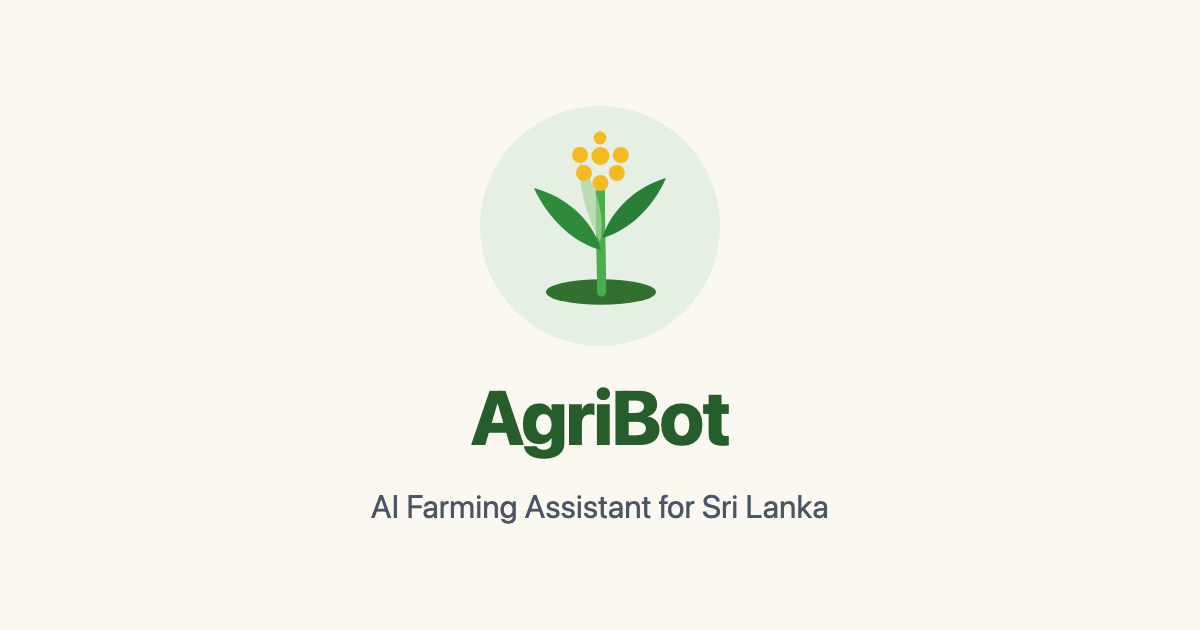
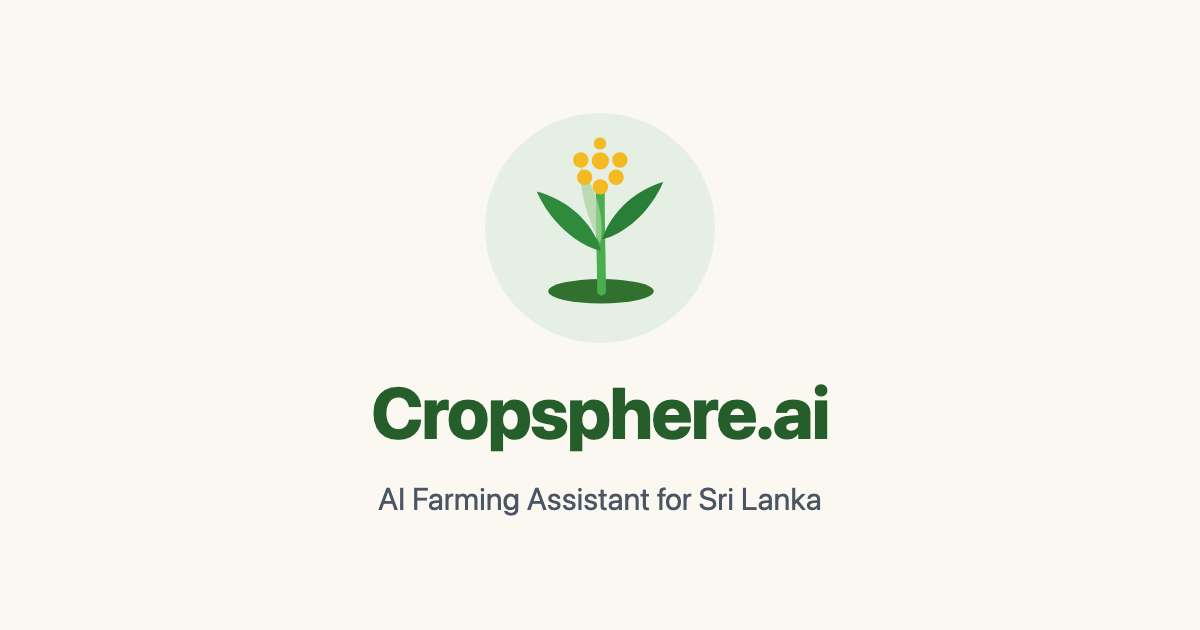
Rename AgriBot to Cropsphere.ai

diff --git a/lib/defaults.js b/lib/defaults.js
@@ -5,13 +5,13 @@ export const defaultContent = {
   hero: {
     title: 'Smart Farming Guidance for Sri Lankan Farmers',
     subtitle:
-      'AgriBot is an AI chatbot that helps farmers plan their crops, estimate earnings, and make better decisions — in simple language, any time of day.',
-    cta: 'Try AgriBot',
+      'Cropsphere.ai is an AI chatbot that helps farmers plan their crops, estimate earnings, and make better decisions — in simple language, any time of day.',
+    cta: 'Try Cropsphere.ai',
     cta_link: '#',
   },
   about: {
-    title: 'About AgriBot',
-    body: 'AgriBot is our final year project: an AI-powered chatbot built to support the farming community of Sri Lanka. Farmers can ask questions about crop planning, cultivation methods, expected income, market prices, and seasonal decisions — and get clear, practical answers instantly.',
+    title: 'About Cropsphere.ai',
+    body: 'Cropsphere.ai is our final year project: an AI-powered chatbot built to support the farming community of Sri Lanka. Farmers can ask questions about crop planning, cultivation methods, expected income, market prices, and seasonal decisions — and get clear, practical answers instantly.',
   },
   contact: {
     email: 'tccgroup2025@gmail.com',
@@ -46,7 +46,7 @@ export const defaultFeatures = [
     icon: '🕐',
     title: 'Available 24/7',
     description:
-      'Ask questions any time — AgriBot never sleeps, so help is always available when you need it.',
+      'Ask questions any time — Cropsphere.ai never sleeps, so help is always available when you need it.',
   },
   {
     icon: '🗣',
@@ -63,7 +63,7 @@ export const defaultSteps = [
   },
   {
     title: 'AI Understands',
-    description: 'AgriBot analyses your question using AI trained on agricultural knowledge.',
+    description: 'Cropsphere.ai analyses your question using AI trained on agricultural knowledge.',
   },
   {
     title: 'Get Clear Answers',
@@ -93,7 +93,7 @@ export const defaultTeam = [
 export const defaultPosts = [
   {
     id: 'sample',
-    title: 'Welcome to AgriBot News',
+    title: 'Welcome to Cropsphere.ai News',
     slug: 'welcome',
     excerpt:
       'This is a sample newsletter post. Log in to the admin portal to publish your own updates.',

diff --git a/app/page.js b/app/page.js
@@ -38,7 +38,7 @@ export default async function HomePage() {
       {/* Features preview */}
       <section className="container-site py-16">
         <Reveal>
-          <h2 className="section-title text-center">What AgriBot Can Do</h2>
+          <h2 className="section-title text-center">What Cropsphere.ai Can Do</h2>
         </Reveal>
         <div className="mt-10 grid gap-6 sm:grid-cols-2 lg:grid-cols-4">
           {features.map((f, i) => (
@@ -109,7 +109,7 @@ export default async function HomePage() {
           <div className="on-dark card bg-leaf-700 border-none py-12">
             <h2 className="text-3xl font-bold text-white">Ready to grow smarter?</h2>
             <p className="mt-3 text-leaf-100 max-w-xl mx-auto">
-              Join farmers across Sri Lanka using AgriBot to plan better and earn more.
+              Join farmers across Sri Lanka using Cropsphere.ai to plan better and earn more.
             </p>
             <a href={hero.cta_link || '#'} className="btn-secondary mt-6">{hero.cta}</a>
           </div>

diff --git a/app/layout.js b/app/layout.js
@@ -8,15 +8,15 @@ import { getMotionSettings } from '@/lib/data';
 export const revalidate = 60;
 
 const description =
-  'AgriBot is an AI chatbot helping Sri Lankan farmers plan crops, estimate earnings, and make smarter farming decisions.';
+  'Cropsphere.ai is an AI chatbot helping Sri Lankan farmers plan crops, estimate earnings, and make smarter farming decisions.';
 
 export const metadata = {
-  title: 'AgriBot — AI Farming Assistant for Sri Lanka',
+  title: 'Cropsphere.ai — AI Farming Assistant for Sri Lanka',
   description,
   // The favicon comes from app/icon.svg and app/apple-icon.png via the App
   // Router file conventions — the same artwork as the loader.
   openGraph: {
-    title: 'AgriBot — AI Farming Assistant for Sri Lanka',
+    title: 'Cropsphere.ai — AI Farming Assistant for Sri Lanka',
     description,
     images: ['/og.png'],
     type: 'website',

diff --git a/components/Navbar.jsx b/components/Navbar.jsx
@@ -87,13 +87,15 @@ export default function Navbar() {
       <nav className="container-site flex items-center justify-between h-16">
         <Link
           href="/"
-          className="flex items-center gap-2 font-extrabold text-xl text-leaf-700"
+          className="flex shrink-0 items-center gap-2 whitespace-nowrap text-xl font-extrabold text-leaf-700"
         >
           <BrandMark size={30} variant={introMark ? 'grow' : 'static'} />
-          AgriBot
+          Cropsphere.ai
         </Link>
 
-        <ul className="hidden md:flex items-center gap-6">
+        {/* Tighter gap at the md breakpoint: the wordmark is long enough that
+            gap-6 collides with the first link at exactly 768px. */}
+        <ul className="ml-6 hidden items-center gap-4 md:flex lg:gap-6">
           {links.map((l) => (
             <li key={l.href}>
               <Link

diff --git a/components/Footer.jsx b/components/Footer.jsx
@@ -13,7 +13,7 @@ export default function Footer() {
       <div className="container-site py-10 grid gap-8 sm:grid-cols-3">
         <div>
           <p className="font-extrabold text-lg text-white flex items-center gap-2">
-            <BrandMark size={24} /> AgriBot
+            <BrandMark size={24} /> Cropsphere.ai
           </p>
           <p className="mt-2 text-sm text-leaf-200">
             AI-powered farming guidance for the farmers of Sri Lanka. A final year
@@ -38,7 +38,7 @@ export default function Footer() {
         </div>
       </div>
       <div className="border-t border-leaf-800 py-4 text-center text-xs text-leaf-300">
-        © {new Date().getFullYear()} AgriBot · TCC Group. All rights reserved.
+        © {new Date().getFullYear()} Cropsphere.ai · TCC Group. All rights reserved.
       </div>
     </footer>
   );

diff --git a/app/features/page.js b/app/features/page.js
@@ -2,7 +2,7 @@ import { getFeatures } from '@/lib/data';
 import Reveal from '@/components/motion/Reveal';
 
 export const revalidate = 60;
-export const metadata = { title: 'Features — AgriBot' };
+export const metadata = { title: 'Features — Cropsphere.ai' };
 
 export default async function FeaturesPage() {
   const features = await getFeatures();
@@ -11,7 +11,7 @@ export default async function FeaturesPage() {
     <section className="container-site py-16">
       <h1 className="section-title text-center">Features</h1>
       <p className="mt-4 text-center text-gray-600 max-w-2xl mx-auto">
-        Everything AgriBot offers to help you farm smarter.
+        Everything Cropsphere.ai offers to help you farm smarter.
       </p>
       <div className="mt-12 grid gap-6 sm:grid-cols-2">
         {features.map((f, i) => (

diff --git a/app/contact/page.js b/app/contact/page.js
@@ -2,7 +2,7 @@ import { getContent } from '@/lib/data';
 import Reveal from '@/components/motion/Reveal';
 
 export const revalidate = 60;
-export const metadata = { title: 'Contact — AgriBot' };
+export const metadata = { title: 'Contact — Cropsphere.ai' };
 
 export default async function ContactPage() {
   const contact = await getContent('contact');
@@ -11,7 +11,7 @@ export default async function ContactPage() {
     <section className="container-site py-16 max-w-2xl">
       <h1 className="section-title text-center">Contact Us</h1>
       <p className="mt-4 text-center text-gray-600">
-        Questions or feedback about AgriBot? We would love to hear from you.
+        Questions or feedback about Cropsphere.ai? We would love to hear from you.
       </p>
       <div className="mt-10 grid gap-5">
         <Reveal>

diff --git a/app/team/page.js b/app/team/page.js
@@ -2,7 +2,7 @@ import { getTeam } from '@/lib/data';
 import Reveal from '@/components/motion/Reveal';
 
 export const revalidate = 60;
-export const metadata = { title: 'Our Team — AgriBot' };
+export const metadata = { title: 'Our Team — Cropsphere.ai' };
 
 export default async function TeamPage() {
   const team = await getTeam();
@@ -11,7 +11,7 @@ export default async function TeamPage() {
     <section className="container-site py-16">
       <h1 className="section-title text-center">Our Team</h1>
       <p className="mt-4 text-center text-gray-600 max-w-2xl mx-auto">
-        The students behind AgriBot — TCC Group.
+        The students behind Cropsphere.ai — TCC Group.
       </p>
       <div className="mt-12 grid gap-6 sm:grid-cols-2 lg:grid-cols-3 max-w-4xl mx-auto">
         {team.map((m, i) => (

diff --git a/app/news/page.js b/app/news/page.js
@@ -3,7 +3,7 @@ import { getPosts } from '@/lib/data';
 import Reveal from '@/components/motion/Reveal';
 
 export const revalidate = 60;
-export const metadata = { title: 'News — AgriBot' };
+export const metadata = { title: 'News — Cropsphere.ai' };
 
 export default async function NewsPage() {
   const posts = await getPosts();
@@ -12,7 +12,7 @@ export default async function NewsPage() {
     <section className="container-site py-16">
       <h1 className="section-title text-center">News & Newsletters</h1>
       <p className="mt-4 text-center text-gray-600">
-        Updates from the AgriBot project.
+        Updates from the Cropsphere.ai project.
       </p>
       <div className="mt-12 grid gap-6 sm:grid-cols-2 lg:grid-cols-3">
         {posts.map((p, i) => (

diff --git a/app/admin/layout.js b/app/admin/layout.js
@@ -75,7 +75,7 @@ export default function AdminLayout({ children }) {
     <div className="min-h-screen bg-leaf-50 flex">
       <aside className="on-dark w-64 bg-leaf-900 text-leaf-100 flex flex-col shrink-0">
         <div className="flex items-center gap-2 p-5 font-extrabold text-white text-lg border-b border-leaf-800">
-          <BrandMark size={26} /> AgriBot Admin
+          <BrandMark size={26} /> Cropsphere.ai Admin
         </div>
         <nav className="flex-1 p-3 space-y-1">
           {nav.map((n) => (

diff --git a/app/news/[slug]/page.js b/app/news/[slug]/page.js
@@ -8,9 +8,9 @@ export const revalidate = 60;
 // navigation. Without this, each article announces the generic site title.
 export async function generateMetadata({ params }) {
   const post = await getPost(params.slug);
-  if (!post) return { title: 'Post not found — AgriBot' };
+  if (!post) return { title: 'Post not found — Cropsphere.ai' };
   return {
-    title: `${post.title} — AgriBot`,
+    title: `${post.title} — Cropsphere.ai`,
     description: post.excerpt || undefined,
   };
 }

diff --git a/app/features/loading.js b/app/features/loading.js
@@ -6,7 +6,7 @@ export default function Loading() {
     <section className="container-site py-16">
       <h1 className="section-title text-center">Features</h1>
       <p className="mt-4 text-center text-gray-600 max-w-2xl mx-auto">
-        Everything AgriBot offers to help you farm smarter.
+        Everything Cropsphere.ai offers to help you farm smarter.
       </p>
 
       <SkeletonRegion
